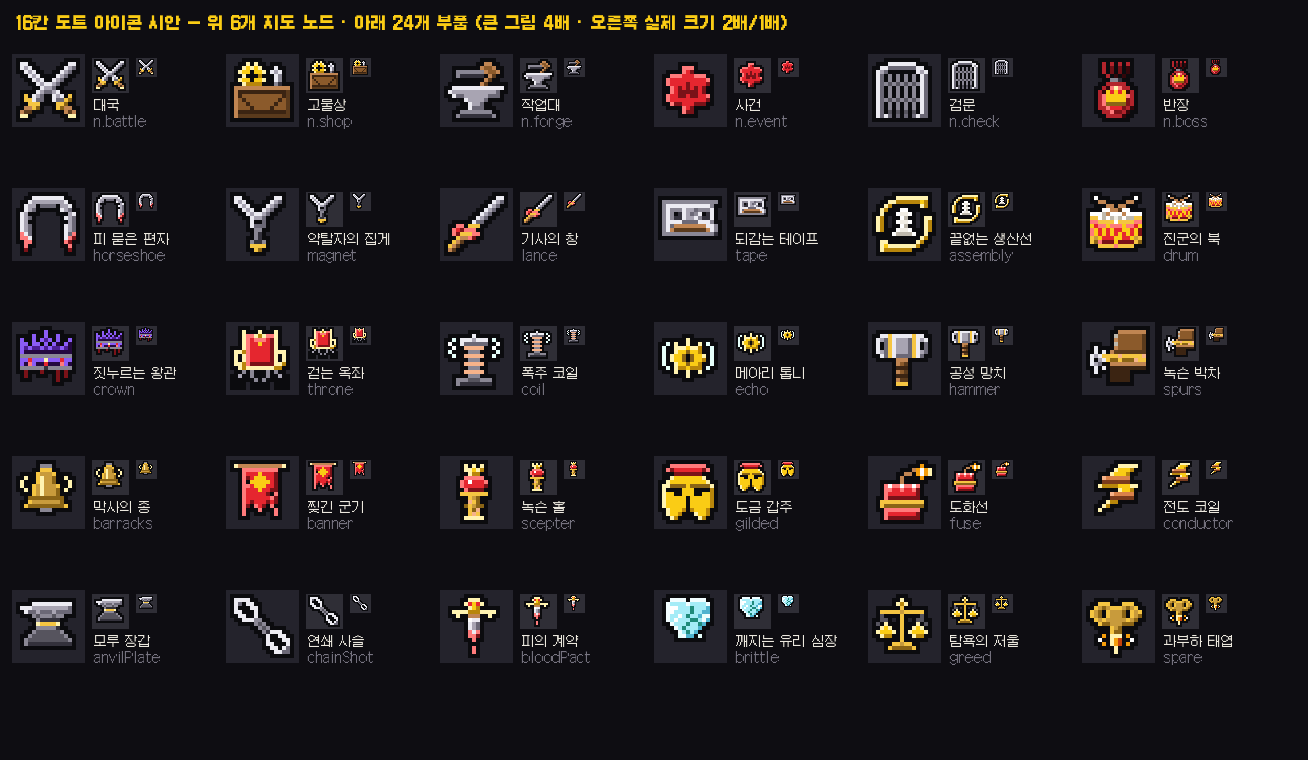
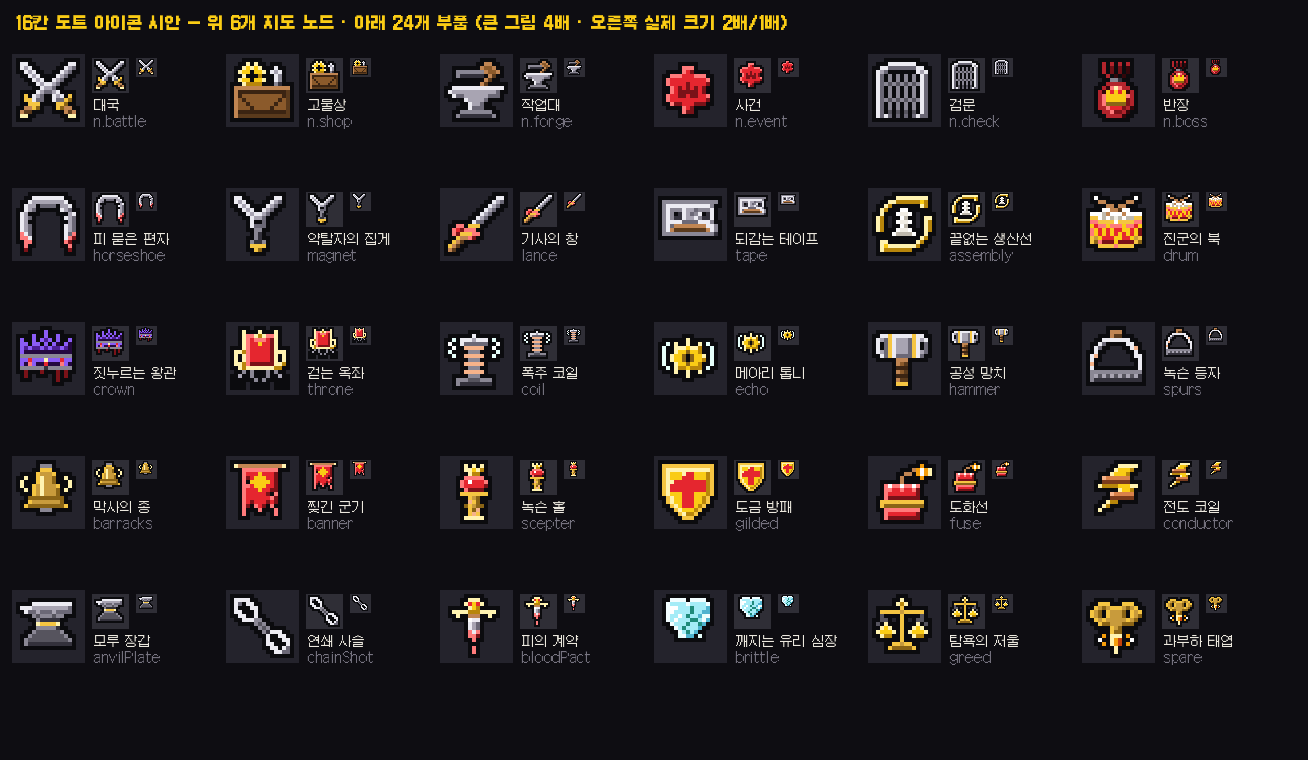
Replace spurs/gilded armor items with stirrup and gilded shield
- 아이콘으로 안 읽히던 두 부품을 아이템 쪽에서 바꿨다: 녹슨 박차 → 녹슨 등자, 도금 갑주 → 도금 방패. 효과와 저장 id는 그대로.
- 등자(끈 · 둥근 쇠 아치 · 디딤판)와 방패(황동 테 금 방패 · 붉은 십자) 도트 아이콘.

Claude-Session: https://claude.ai/code/session_011jC4ZCDKW43H5FzLWnYVpe

Changed region(s): [[0.4893, 0.6053, 0.6116, 0.6961], [0.8257, 0.4237, 0.948, 0.5145]]

diff --git a/src/slice/parts.ts b/src/slice/parts.ts
@@ -27,11 +27,11 @@ export const SLICE_PARTS: Record<SlicePartId, SlicePartDef> = {
   hammer: { name: '공성 망치', axis: 'push', icon: 'wrench', desc: '충돌 피해 ×2' },
   // ---- 볼륨 (R5-5, D-172) · 양날(대가가 붙은 강한 것)은 desc에 대가 ----
   lance: { name: '기사의 창', axis: 'cav', icon: 'sword', desc: '나이트의 공격 ×1.5' },
-  spurs: { name: '녹슨 박차', axis: 'cav', icon: 'horseshoe', desc: '나이트 카드 태엽 −1' },
+  spurs: { name: '녹슨 등자', axis: 'cav', icon: 'horseshoe', desc: '나이트 카드 태엽 −1' },
   barracks: { name: '막사의 종', axis: 'inf', icon: 'bell', desc: '대국 시작에 킹 곁에 폰 +1' },
   banner: { name: '찢긴 군기', axis: 'inf', icon: 'flag', desc: '폰의 공격 ×1.5' },
   scepter: { name: '녹슨 홀', axis: 'king', icon: 'crown', desc: '대국 시작에 킹 방열판 +25' },
-  gilded: { name: '도금 갑주', axis: 'king', icon: 'shield', desc: '킹이 맞을 때마다 태엽 +1 (턴에 한 번)' },
+  gilded: { name: '도금 방패', axis: 'king', icon: 'shield', desc: '킹이 맞을 때마다 태엽 +1 (턴에 한 번)' },
   fuse: { name: '도화선', axis: 'chain', icon: 'flame', desc: '연쇄 3 이상이면 손패 +1' },
   conductor: { name: '전도 코일', axis: 'chain', icon: 'chain', desc: '연쇄 기본 배율 +10%p (처치마다 +35%)' },
   anvilPlate: { name: '모루 장갑', axis: 'push', icon: 'anvil', desc: '충돌 피해 +10' },

diff --git a/tests/slice-build.test.ts b/tests/slice-build.test.ts
@@ -264,7 +264,7 @@ describe('볼륨 — 카드 40 · 부품 24 (D-172)', () => {
     endTurn(bp, true);
     expect(bp.s.pieces.find((p) => p.id === kb.id)!.hp).toBe(kb.maxHp - 4);
   });
-  it('녹슨 박차: 나이트 카드 태엽 −1 · 녹슨 홀: 킹 방열판 25 · 막사의 종: 폰 +1', () => {
+  it('녹슨 등자: 나이트 카드 태엽 −1 · 녹슨 홀: 킹 방열판 25 · 막사의 종: 폰 +1', () => {
     const b = mk(['spurs', 'scepter', 'barracks'], ['leap', 'knightRaid']);
     expect(costOf(b, 0)).toBe(0);
     expect(costOf(b, 1)).toBe(1);

diff --git a/src/slice/battle.ts b/src/slice/battle.ts
@@ -836,7 +836,7 @@ export const endTurn = (b: SliceBattle, force = false): { events: BattleEvent[];
   if (b.s.winner === null) {
     b.turn += 1;
     b.s = { ...b.s, turnNumber: b.s.turnNumber + 2, turnSide: 0 };
-    // 도금 갑주: 지난 적 차례에 킹이 맞았으면 태엽 +1
+    // 도금 방패: 지난 적 차례에 킹이 맞았으면 태엽 +1
     b.ap = b.apMax + (gildedHit ? 1 : 0);
     b.kills = 0;
     b.killers = [];

diff --git a/tools/pixel/icons16.py b/tools/pixel/icons16.py
@@ -1085,6 +1085,38 @@ g.mirror().pts('T', (2, 3), (1, 4), (1, 5))
 icon('gilded', '도금 갑주', g.done())
 
 
+# ───────── 7판: 아이템 교체 — 녹슨 박차 → 녹슨 등자, 도금 갑주 → 도금 방패 ─────────
+
+# 녹슨 등자: 가죽 끈 · 둥근 쇠 아치 · 디딤판 (녹 점)
+g = G()
+ascii_(g, 0, 0, [
+    '     bb',
+    '     bb',
+    '   llll',
+    '  ll',
+    ' ll',
+    ' l',
+    'll',
+    'l',
+    'l',
+    'l',
+    'ggggggg',
+    'gLgLgLg',
+    'ggggggg',
+])
+g.mirror().pts('k', (1, 6), (11, 4), (0, 8))
+icon('spurs', '녹슨 등자', g.done())
+
+# 도금 방패: 황동 테 금 방패 · 붉은 십자
+g = G()
+for y, hw in zip(range(14), [6, 6, 6, 6, 6, 6, 6, 6, 5, 5, 4, 3, 2, 1]):
+    g.rect(6 - hw, y, 2 * hw + 1, 1, 'u')
+for y, hw in zip(range(1, 13), [5, 5, 5, 5, 5, 5, 5, 4, 4, 3, 2, 1]):
+    g.rect(6 - hw, y, 2 * hw + 1, 1, 'y')
+g.rect(5, 2, 3, 9, 'R').rect(2, 4, 9, 3, 'R').pts('T', (5, 2), (2, 4))
+icon('gilded', '도금 방패', g.done())
+
+
 def render(rows):
     """14×14 재질 그림 → 16×16 RGBA (명암 · 외곽선)"""
     n = 16
